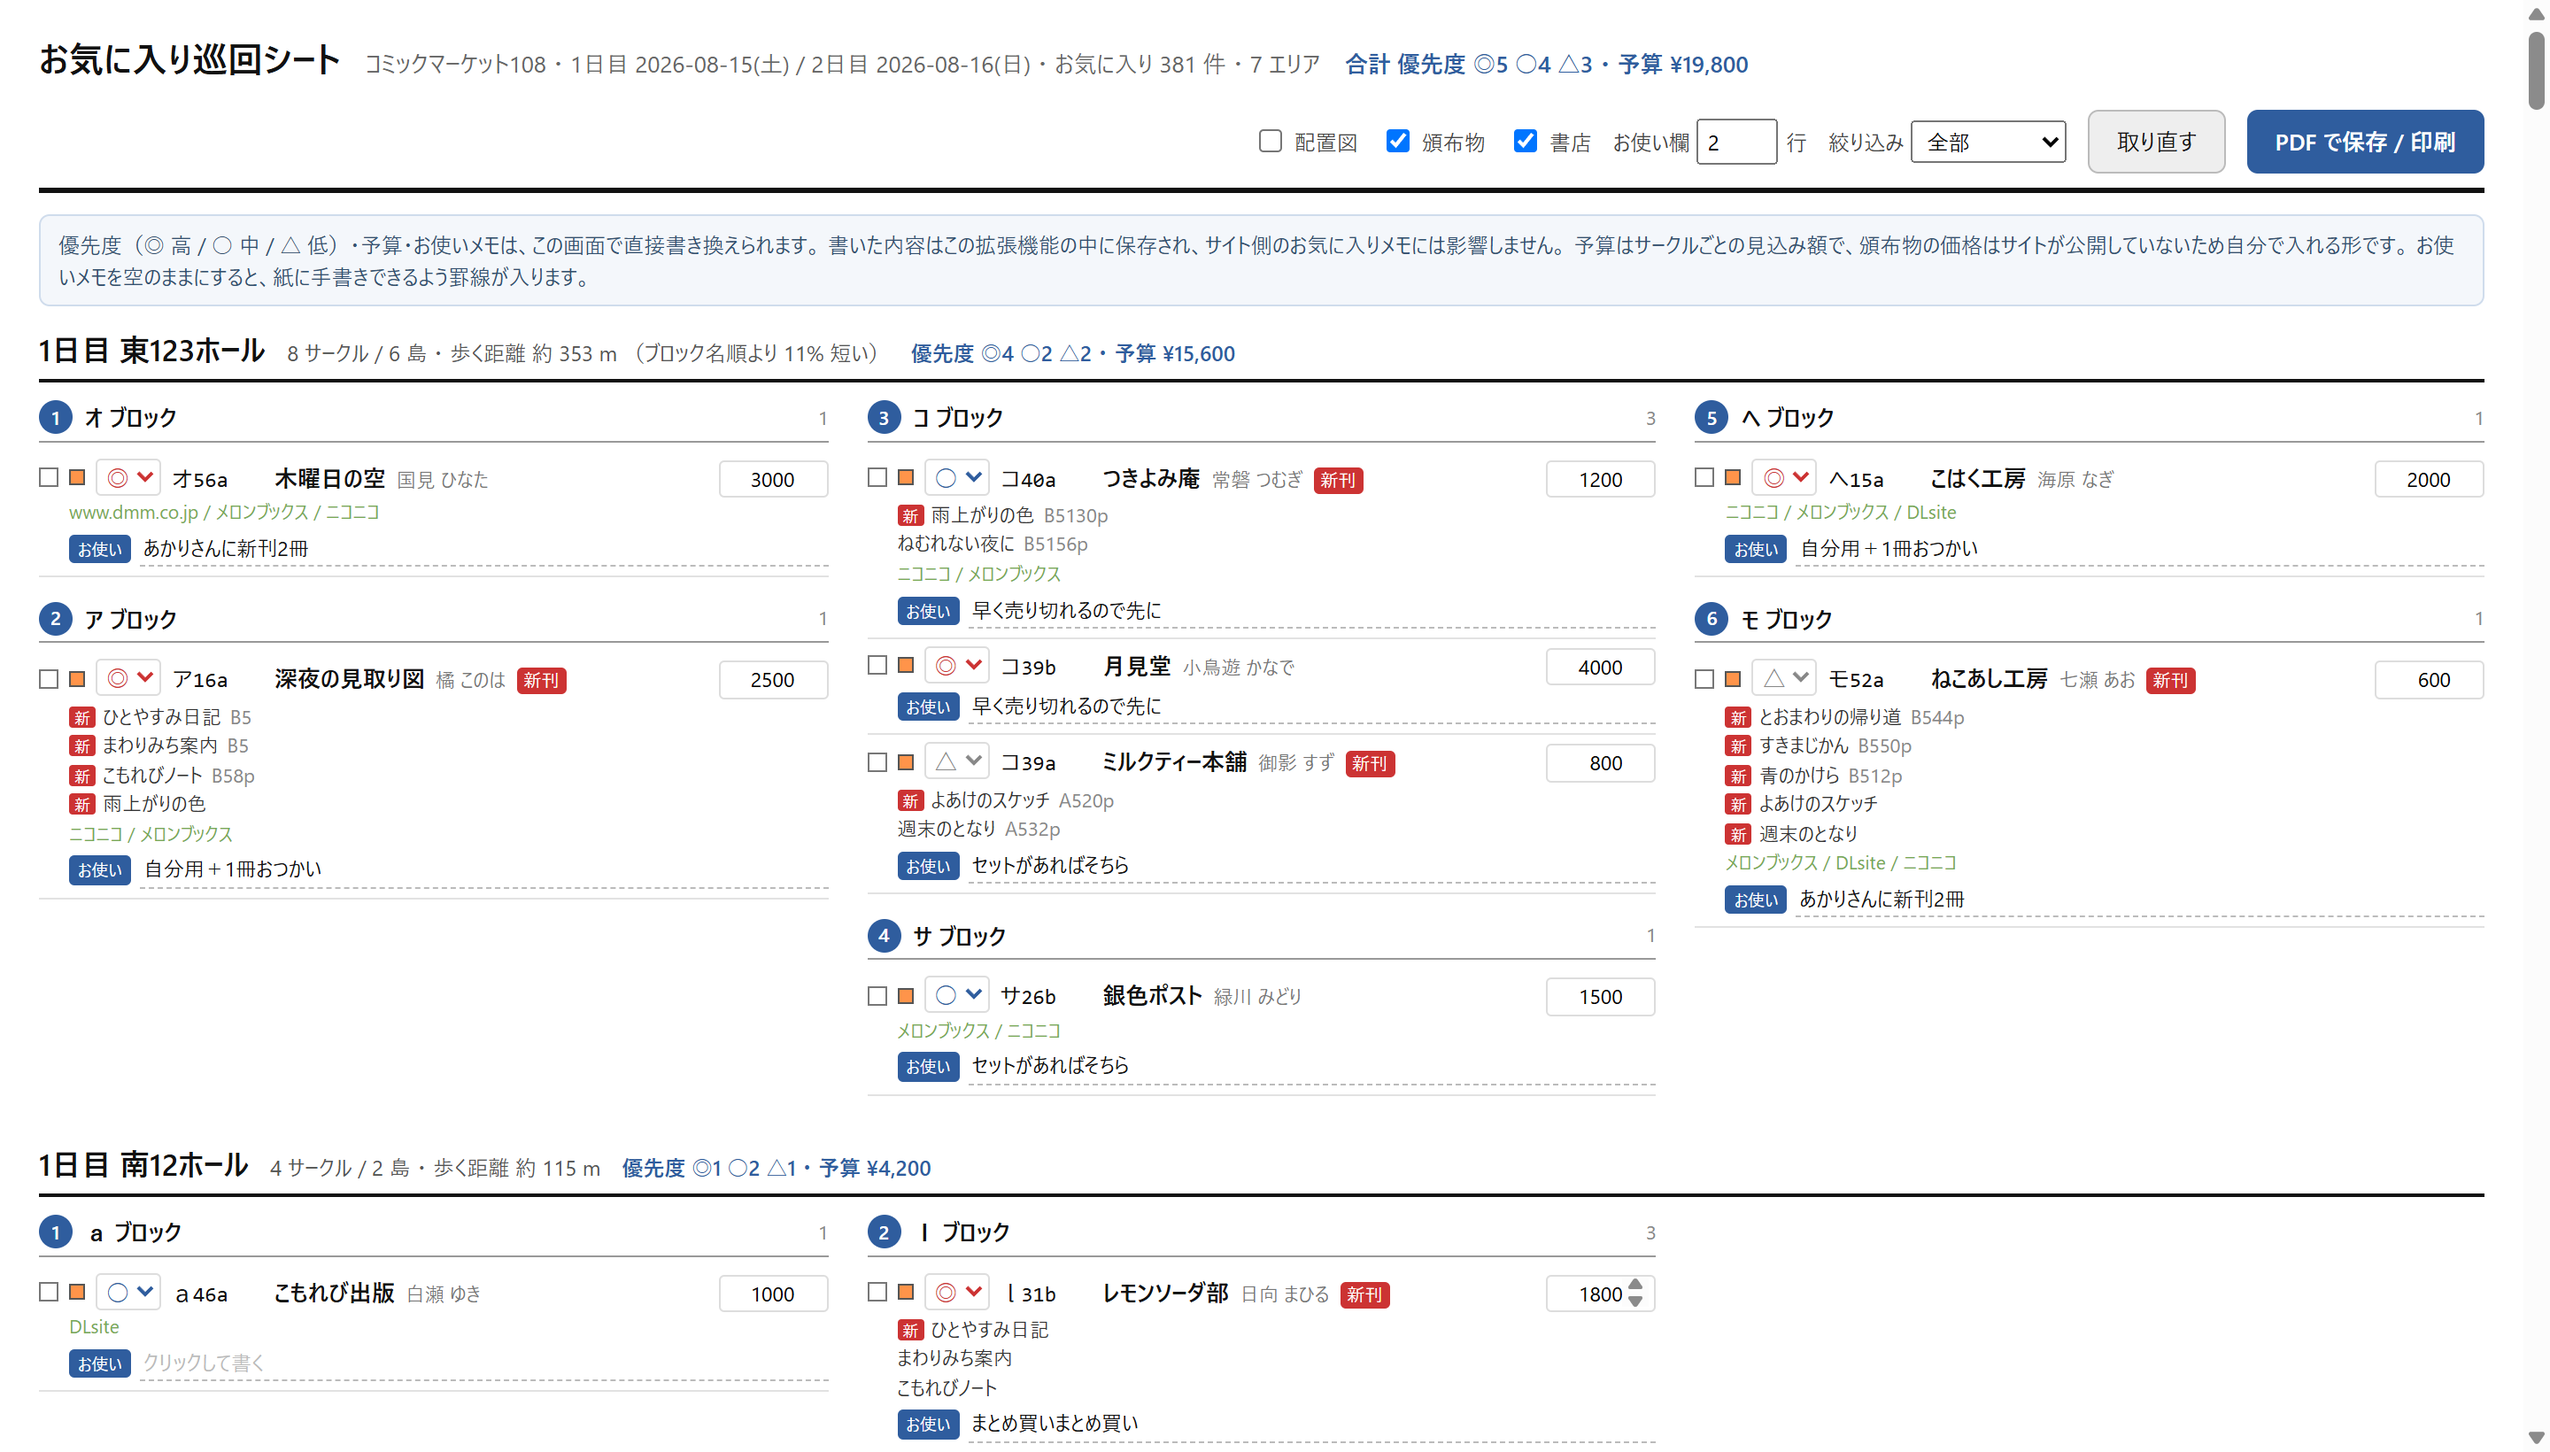
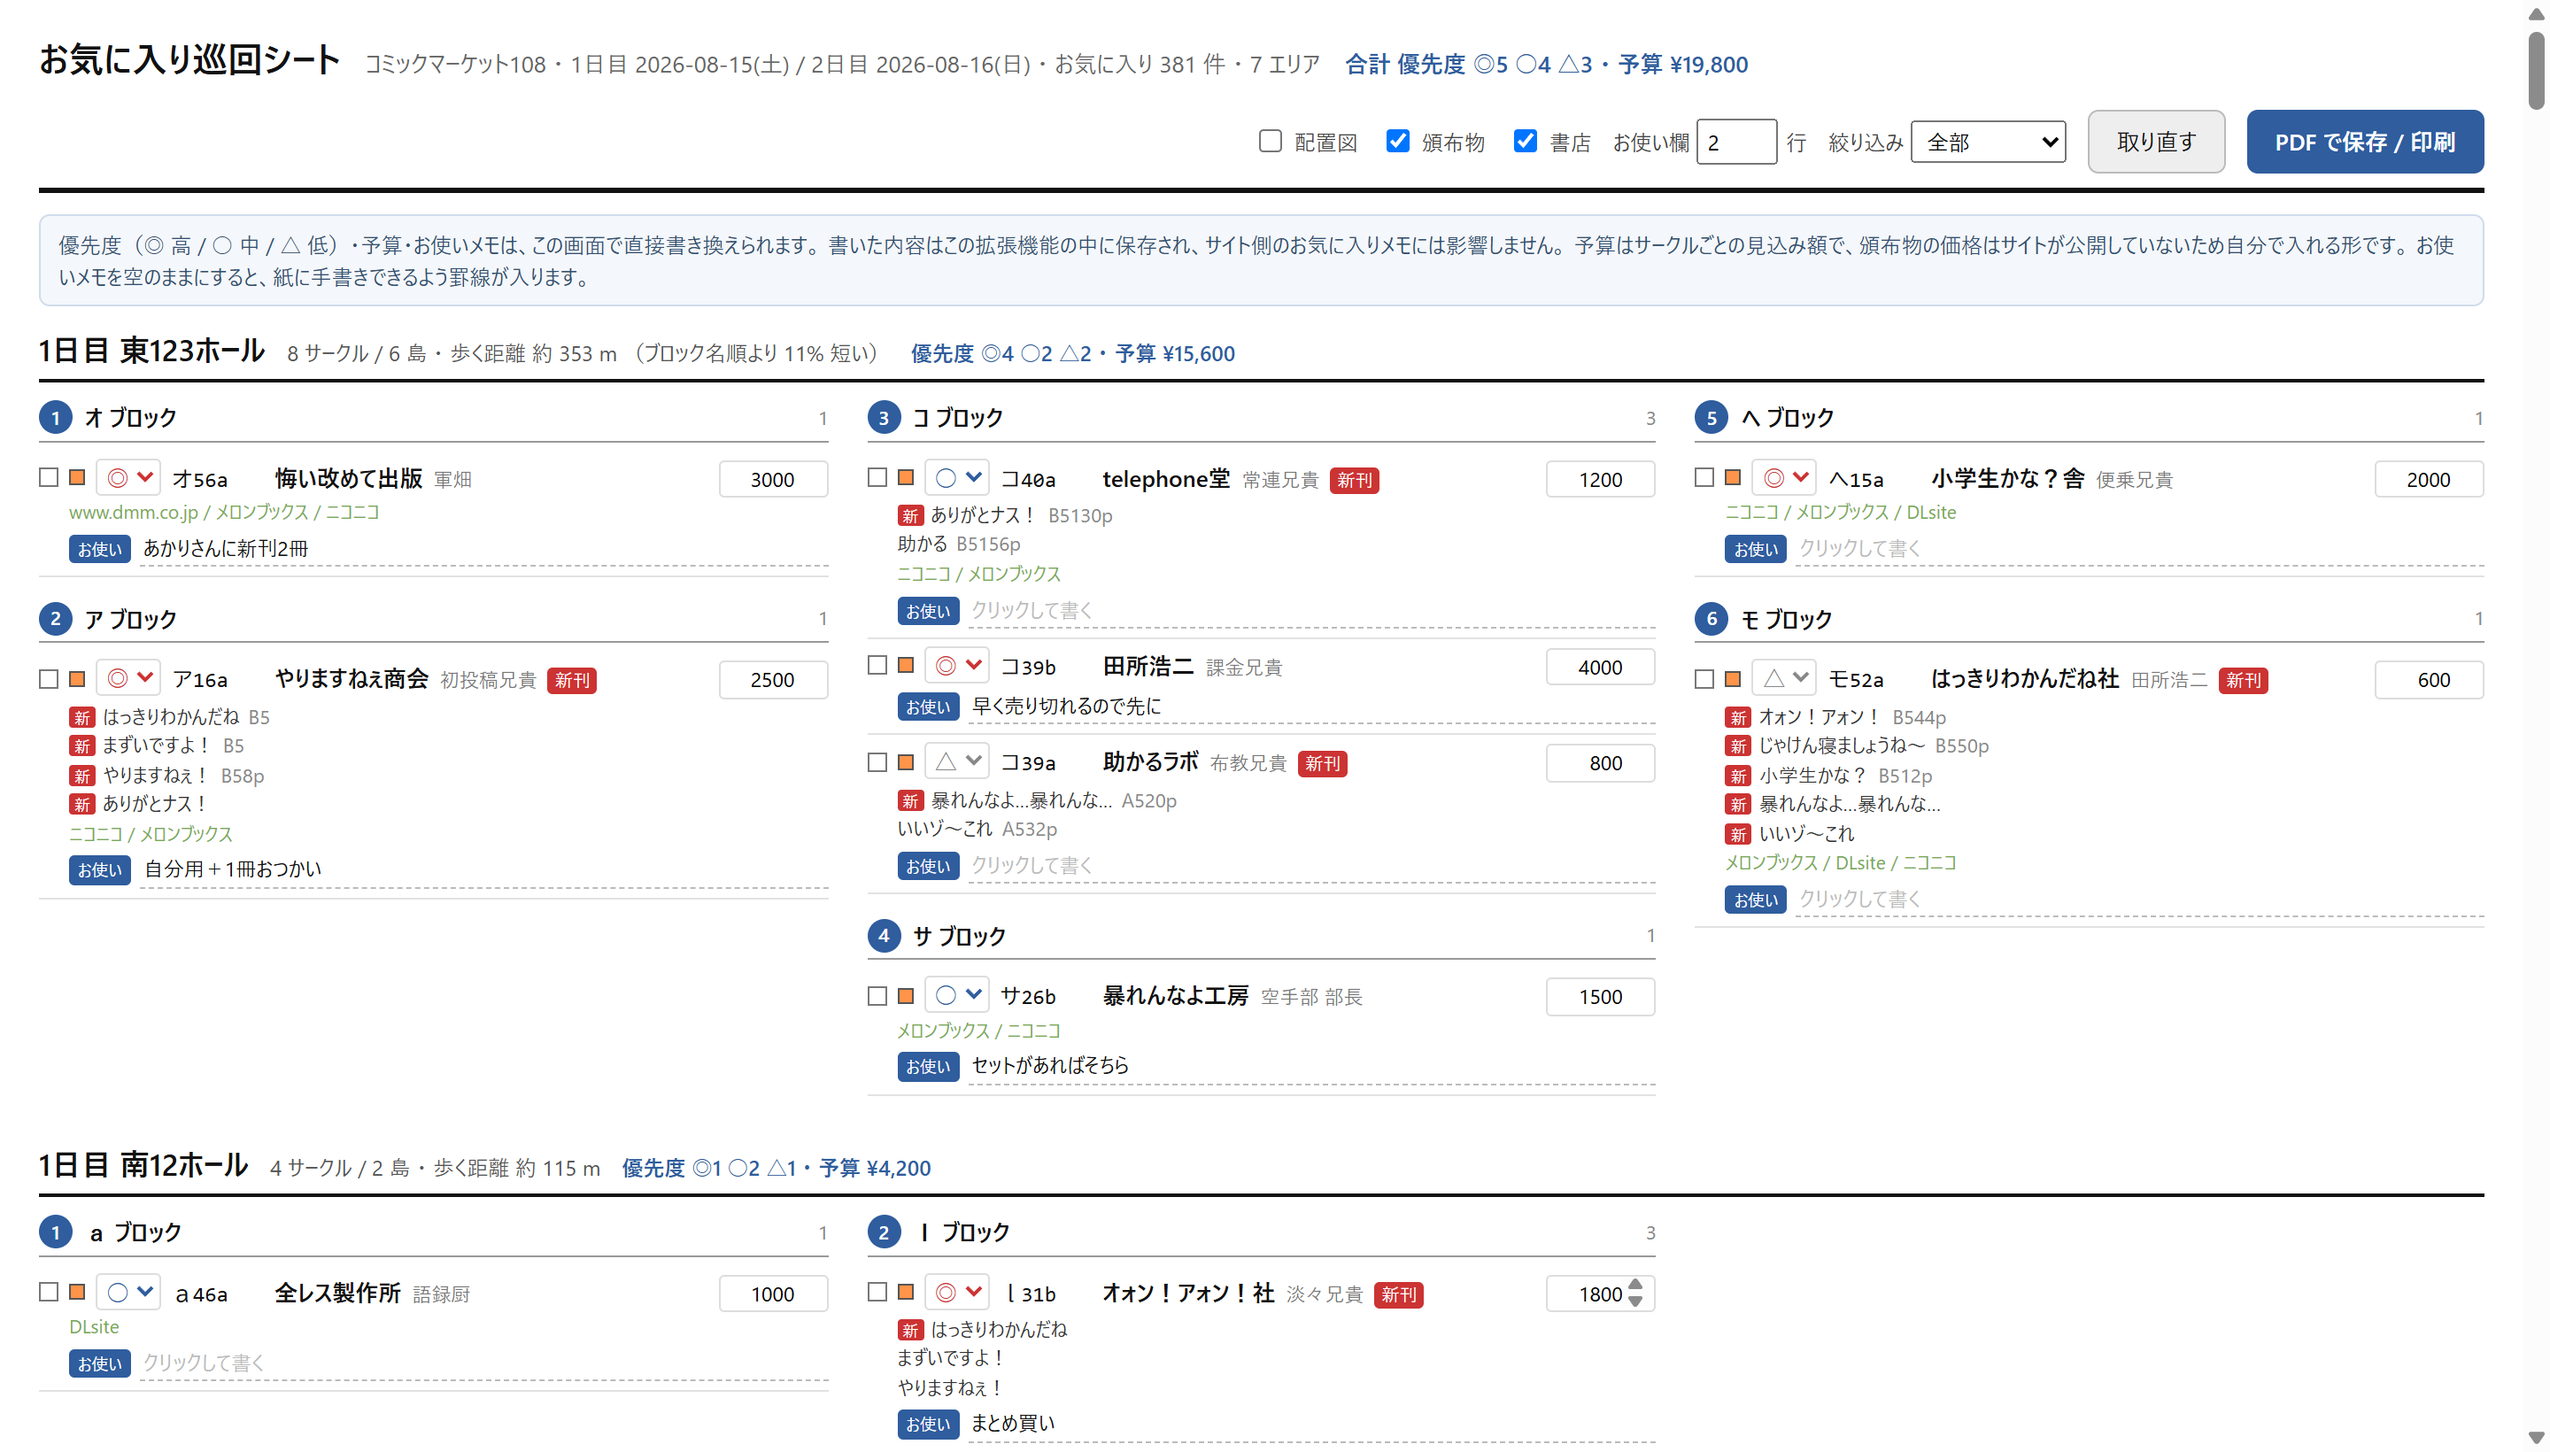
スクショのダミー名を、ひと目でダミーと分かる文字列に差し替えた
それらしい名前だと実在サークルと紛れる恐れがあるため。
お使いメモが前回撮影ぶんに追記されて二重になっていたのもあわせて直した。

diff --git a/README.md b/README.md
@@ -34,7 +34,7 @@
 
 <img src="docs/images/popup.png" width="300" alt="ポップアップ">
 
-> スクリーンショットのサークル名・執筆者名・頒布物名はすべて架空のものに差し替えてある。配置図の形と巡回経路は実データのまま。
+> スクリーンショットのサークル名・執筆者名・頒布物名は、実在のサークルと紛れないよう、ひと目でダミーと分かる文字列に差し替えてある。配置図の形・スペースの位置・巡回経路・件数は実データのまま。
 
 ## 読み込み方
 
